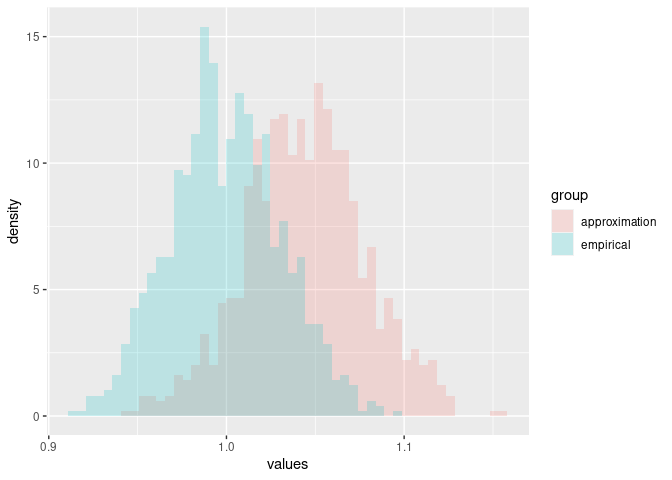
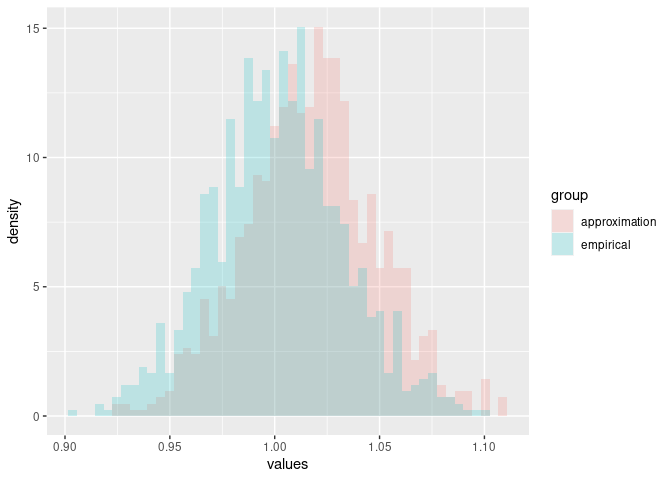
updates

diff --git a/README.md b/README.md
@@ -21,10 +21,13 @@ You can install the development version of `algebraic.mle` from
 devtools::install_github("queelius/algebraic.mle")
 ```
 
-## Example: MLE of rate parameter in exponential distribution
+## MLE of rate parameter in exponential distribution
 
-Consider an exponentially distributed random variable
-*X*<sub>*i*</sub> ∼ EXP (*λ*=1) and we draw a random sample from it:
+In what follows, to demonstrate the `algebraic.mle` R package, we
+consider a random sample from exponentially distributed random variable
+*X*<sub>*i*</sub> ∼ EXP (*λ*=1) for *i* = 1, …, *n*.
+
+We generate an observation from this random sample with:
 
 ``` r
 library(stats)
@@ -40,18 +43,18 @@ from this sample (data frame) with:
 ``` r
 print(x)
 #> # A tibble: 1,000 × 1
-#>         x
-#>     <dbl>
-#>  1 1.62  
-#>  2 1.33  
-#>  3 0.397 
-#>  4 0.0523
-#>  5 1.59  
-#>  6 1.59  
-#>  7 0.112 
-#>  8 0.108 
-#>  9 6.27  
-#> 10 0.246 
+#>        x
+#>    <dbl>
+#>  1 0.154
+#>  2 0.128
+#>  3 4.52 
+#>  4 0.204
+#>  5 0.341
+#>  6 1.28 
+#>  7 0.730
+#>  8 0.552
+#>  9 0.442
+#> 10 0.334
 #> # … with 990 more rows
 ```
 
@@ -63,7 +66,7 @@ library(ggplot2)
 ggplot(x, aes(x=x)) + geom_histogram(aes(y=..density..),alpha=.2) +
     xlim(0,6) + 
     geom_function(fun=dexp)
-#> Warning: Removed 3 rows containing non-finite values (stat_bin).
+#> Warning: Removed 4 rows containing non-finite values (stat_bin).
 #> Warning: Removed 2 rows containing missing values (geom_bar).
 ```
 
@@ -76,15 +79,15 @@ estimation as implemented by the `algebraic.mle` package:
 library(algebraic.mle)
 (rate.hat <- mle_exp(x$x))
 #> $theta.hat
-#> [1] 1.044433
+#> [1] 1.017336
 #> 
 #> $info
 #>          [,1]
-#> [1,] 916.7246
+#> [1,] 966.2084
 #> 
 #> $sigma
-#>            [,1]
-#> [1,] 0.00109084
+#>             [,1]
+#> [1,] 0.001034973
 #> 
 #> $sample_size
 #> [1] 1000
@@ -97,7 +100,7 @@ We can show the point estimator with:
 
 ``` r
 point(rate.hat)
-#> [1] 1.044433
+#> [1] 1.017336
 ```
 
 We can show the Fisher information and variance-covariance matrices
@@ -106,10 +109,10 @@ with:
 ``` r
 fisher_info(rate.hat)
 #>          [,1]
-#> [1,] 916.7246
+#> [1,] 966.2084
 vcov(rate.hat)
-#>            [,1]
-#> [1,] 0.00109084
+#>             [,1]
+#> [1,] 0.001034973
 ```
 
 (If `rate.hat` had been a vector, `vcov` would have output a
@@ -121,7 +124,7 @@ We can show the confidence interval with:
 ``` r
 confint(rate.hat)
 #>       2.5 %   97.5 %
-#> 1 0.9901069 1.098759
+#> 1 0.9644199 1.070253
 ```
 
 ## Sampling distribution of the MLE
@@ -189,6 +192,28 @@ appear to be quite similar otherwise.
 
 ## Invariance property of the MLE
 
+An interesting property of an MLE *λ̂* is that the MLE of *g*(*λ*) is
+given by *g*(*λ̂*).
+
+``` r
+g <- function(lambda) 2*lambda
+
+fn_distr(rate.hat,g,100)
+#> $sigma
+#>             [,1]
+#> [1,] 0.004631337
+#> 
+#> $info
+#>          [,1]
+#> [1,] 215.9204
+#> 
+#> $theta.hat
+#> [1] 2.034673
+#> 
+#> attr(,"class")
+#> [1] "mle_func"  "mle"       "estimator"
+```
+
 ## Weighted MLE: a weighted sum of maximum likelihood estimators
 
 Since the variance-covariance of an MLE is inversely proportional to the
@@ -228,16 +253,16 @@ for (i in 1:r)
 mle.wt <- mle_weighted(mles)
 print(mle.wt)
 #> $theta.hat
-#>           [,1]
-#> [1,] 0.9853028
+#>          [,1]
+#> [1,] 1.032892
 #> 
 #> $info
 #>          [,1]
-#> [1,] 1024.628
+#> [1,] 936.1397
 #> 
 #> $sigma
-#>              [,1]
-#> [1,] 0.0009759642
+#>             [,1]
+#> [1,] 0.001068217
 #> 
 #> attr(,"class")
 #> [1] "mle_weighted" "mle"          "estimate"
@@ -245,15 +270,15 @@ print(mle.wt)
 mle.tot <- mle_exp(data3)
 print(mle.tot)
 #> $theta.hat
-#> [1] 0.9905221
+#> [1] 1.0342
 #> 
 #> $info
 #>          [,1]
-#> [1,] 1019.229
+#> [1,] 934.9557
 #> 
 #> $sigma
-#>              [,1]
-#> [1,] 0.0009811339
+#>             [,1]
+#> [1,] 0.001069569
 #> 
 #> $sample_size
 #> [1] 1000
@@ -263,10 +288,10 @@ print(mle.tot)
 
 confint(mle.wt)
 #>       2.5 %   97.5 %
-#> 1 0.9339169 1.036689
+#> 1 0.9791321 1.086652
 confint(mle.tot)
 #>       2.5 %   97.5 %
-#> 1 0.9390002 1.042044
+#> 1 0.9804061 1.087994
 ```
 
 We see that *θ̂* and *θ̂*<sub>*w*</sub> model approximately the same
